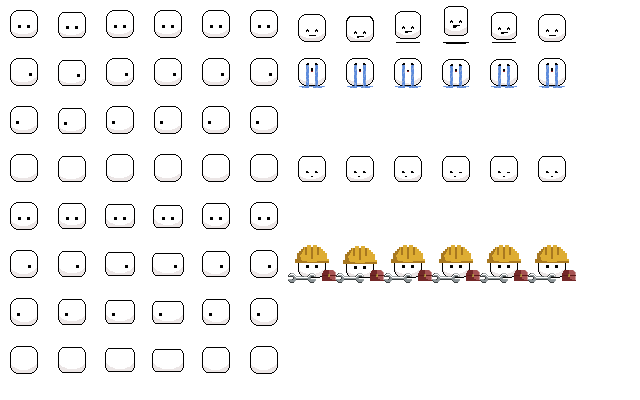
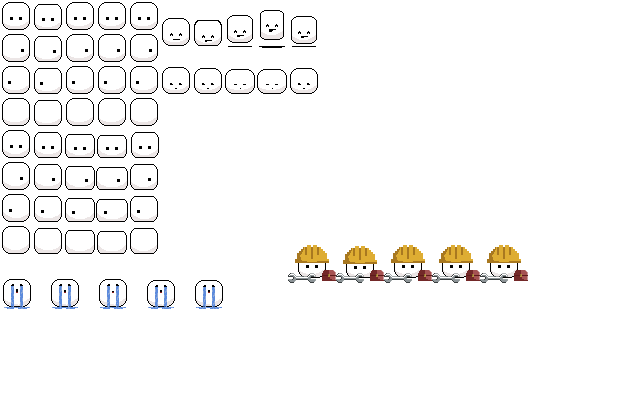
Updated state animations
Added animation data to config and added animation updates to states.

diff --git a/Graphical-AI-Solutions/Pathfinding/Semi-Primitives/AnimatedSprite.cpp b/Graphical-AI-Solutions/Pathfinding/Semi-Primitives/AnimatedSprite.cpp
@@ -1,11 +1,12 @@
 #include "AnimatedSprite.h"
 
 AnimatedSprite::AnimatedSprite()
-: animData_(AnimData())
+: animationStates_(std::map<std::string, int>())
+, animData_(AnimData())
 , animNum_(0)
 , frameNum_(0)
 , frameTime_(0)
-, animFPS_(12.0f) { }
+, animFPS_(16.0f) { }
 
 void AnimatedSprite::initialize(AnimData animData, unsigned int startingAnimNum) {
 		animData_ = animData;
@@ -14,6 +15,11 @@ void AnimatedSprite::initialize(AnimData animData, unsigned int startingAnimNum)
 		sf::Sprite::setTexture(*animData_.spriteSheet_ptr_);
 		// Set animation to default animation.
 		changeAnim(0);
+
+		// Create Animation States Mappings
+		for (unsigned int i = 0; i < animData.numOfAnimatons_; ++i) {
+			animationStates_.emplace(animData.frameInfo_[i].animName_, i);
+		}
 }
 
 void AnimatedSprite::update(float deltaTime) {
@@ -57,4 +63,18 @@ void AnimatedSprite::changeAnim(unsigned int num) {
 		animData_.frameInfo_[animNum_].animOffset_.top,
 		animData_.frameInfo_[animNum_].animOffset_.width,
 		animData_.frameInfo_[animNum_].animOffset_.height));
+
+	// Update Animation origin based on TileSize
+	int xOffset = std::abs(TILESIZE - animData_.frameInfo_[animNum_].animOffset_.width);
+	int yOffset = std::abs(TILESIZE - animData_.frameInfo_[animNum_].animOffset_.height);
+	// apply to origin
+	sf::Sprite::setOrigin(xOffset, yOffset);
+}
+
+int AnimatedSprite::getAnimationByName(std::string animationName)
+{
+	if (animationStates_.find(animationName) != animationStates_.end()) {
+		return animationStates_[animationName];
+	}
+	throw std::exception("There is no key 'name' in animationStates");
 }

diff --git a/Graphical-AI-Solutions/Pathfinding/AI/FollowPathState.cpp b/Graphical-AI-Solutions/Pathfinding/AI/FollowPathState.cpp
@@ -20,6 +20,20 @@ sf::Vector2u FollowPathState::convertTileToVector(unsigned long int tileIndex, i
 	return sf::Vector2u((tileIndex % mapWidth) * TILESIZE, (tileIndex / mapWidth) * TILESIZE);
 }
 
+void FollowPathState::setAnimationDirection(sf::Vector2i direction) {
+	// set new animation
+	int animIndex = 0;
+	if (direction_.x > 0)
+		animIndex = owner_->getAnimationByName(WALKING_RIGHT_ANIMATION.animName_);
+	else if (direction_.x < 0)
+		animIndex = owner_->getAnimationByName(WALKING_LEFT_ANIMATION.animName_);
+	else if (direction_.y > 0)
+		animIndex = owner_->getAnimationByName(WALKING_DOWN_ANIMATION.animName_);
+	else if (direction_.y < 0)
+		animIndex = owner_->getAnimationByName(WALKING_UP_ANIMATION.animName_);
+	owner_->changeAnim(animIndex);
+}
+
 	void FollowPathState::update(float deltaTime) {
 		// move character
 		owner_->move(direction_.x * movingSpeed_ * deltaTime,
@@ -44,7 +58,7 @@ sf::Vector2u FollowPathState::convertTileToVector(unsigned long int tileIndex, i
 			if (newDirection != direction_) {
 				// Set new direction
 				direction_ = newDirection;
-				// set new animation
+				setAnimationDirection(direction_);
 			}
 		}
 	};
@@ -52,6 +66,7 @@ sf::Vector2u FollowPathState::convertTileToVector(unsigned long int tileIndex, i
 	void FollowPathState::enter() {
 		direction_ = getDirection(static_cast<sf::Vector2u>(owner_->getPosition()),
 			convertTileToVector(path_[currentTargetIndex_], MAP_WIDTH));
+		setAnimationDirection(direction_);
 	};
 
 	FollowPathState::FollowPathState(AIController* parent, AnimatedSprite* owner, std::vector<unsigned long int> path)

diff --git a/Graphical-AI-Solutions/Pathfinding/AI/FindPathState.cpp b/Graphical-AI-Solutions/Pathfinding/AI/FindPathState.cpp
@@ -25,11 +25,13 @@ ProblemDefinition FindPathState::generateRandomProblem(sf::Vector2f characterPos
 
 void FindPathState::update(float deltaTime) {
 	if (path_._Is_ready()) {
-		if (pathfinder_.getFoundPath()) {
-			parent_->setState(new FollowPathState(parent_, owner_, path_.get()));
-		}
-		else {
-			parent_->setState(new ShowResultState(parent_, owner_, false));
+		if (clock_.getElapsedTime().asSeconds() > waitTime_) {
+			if (pathfinder_.getFoundPath()) {
+				parent_->setState(new FollowPathState(parent_, owner_, path_.get()));
+			}
+			else {
+				parent_->setState(new ShowResultState(parent_, owner_, false));
+			}
 		}
 	}
 }
@@ -47,8 +49,17 @@ void FindPathState::enter() {
 	std::static_pointer_cast<Maze>(maze)->setMapData(problemDefinition_.mapData);
 
 	path_ = std::async(&Pathfinder::findPath, &pathfinder_, owner_->getPosition(), problemDefinition_.destination, problemDefinition_.mapData);
+
+	// Set thinking animation
+	auto animIndex = owner_->getAnimationByName(IDLE_ANIMATION.animName_);
+	owner_->changeAnim(animIndex);
+
+	// Start clock
+	clock_.restart();
 }
 
 FindPathState::FindPathState(AIController* parent, AnimatedSprite* owner, ProblemDefinition problemDefinition)
 	: ProblemSolverState(parent, owner)
-	, problemDefinition_(problemDefinition) { }
+	, problemDefinition_(problemDefinition)
+	, clock_(sf::Clock())
+	, waitTime_(2) { }

diff --git a/Graphical-AI-Solutions/Pathfinding/config.h b/Graphical-AI-Solutions/Pathfinding/config.h
@@ -19,13 +19,14 @@
 #define AI_CHARACTER_NAME "problemSolver"
 #define CHARACTER_START_X 0
 #define CHARACTER_START_Y 0
-#define AI_MOVING_SPEED 20.f
+#define AI_MOVING_SPEED 35.f
 
 // AI-Character animation states
-#define THINKING_ANIMATION 0
-#define WALKING_UP_ANIMATION 0
-#define WALKING_DOWN_ANIMATION AnimFrameData{ sf::Rect<int>(0, 5 * 48, 48, 48), 5, "walking down" }
-#define WALKING_RIGHT_ANIMATION 0
-#define WALKING_LEFT_ANIMATION 0
-#define CELEBRATE_ANIMATION AnimFrameData{ sf::Rect<int>(6 * 48, 0, 48, 48), 5, "celebrate" }
-#define CRY_ANIMATION 0
+#define IDLE_ANIMATION AnimFrameData{ sf::Rect<int>(0, 0, 32, 32), 5, "idle" }
+#define WALKING_DOWN_ANIMATION AnimFrameData{ sf::Rect<int>(0, 128, 32, 32), 5, "walking down" }
+#define WALKING_RIGHT_ANIMATION AnimFrameData{ sf::Rect<int>(0, 160, 32, 32), 5, "walking right" }
+#define WALKING_LEFT_ANIMATION AnimFrameData{ sf::Rect<int>(0, 192, 32, 32), 5, "walking left" }
+#define WALKING_UP_ANIMATION AnimFrameData{ sf::Rect<int>(0, 224, 32, 32), 5, "walking up" }
+#define THINKING_ANIMATION AnimFrameData{ sf::Rect<int>(0, 0, 32, 32), 5, "thinking" }
+#define CELEBRATE_ANIMATION AnimFrameData{ sf::Rect<int>(160, 0, 32, 48), 5, "celebrate" }
+#define CRY_ANIMATION AnimFrameData{ sf::Rect<int>(0, 0, 32, 32), 5, "cry" }

diff --git a/Graphical-AI-Solutions/Pathfinding/Semi-Primitives/AnimatedSprite.h b/Graphical-AI-Solutions/Pathfinding/Semi-Primitives/AnimatedSprite.h
@@ -1,13 +1,14 @@
 #pragma once
 #include <SFML/Graphics.hpp>
 #include "../WorldObjects/WorldObject.hpp"
+#include "../config.h"
 
 struct AnimFrameData {
 	// The offset of the first frame and the size of the images of an animation
 	sf::Rect<int> animOffset_;
 	// The total number of frames for said animation
 	unsigned int numFrames_;
-	// The name of the anomation
+	// The name of the animation
 	std::string animName_;
 };
 
@@ -22,6 +23,8 @@ struct AnimData {
 
 class AnimatedSprite : public sf::Sprite {
 private:
+	// Mapping for animation states in the AnimatedSprite, name of animation - index of animation in AnimData
+	std::map<std::string, int> animationStates_;
 	// All of the animation data (includes ImageFile and FrameData)
 	AnimData animData_;
 	// The particular animation that is active
@@ -38,4 +41,5 @@ public:
 	virtual void initialize(AnimData animData, unsigned int startingAnimNum);
 	virtual void update(float deltaTime);
 	void changeAnim(unsigned int num);
+	int getAnimationByName(std::string animationName);
 };

diff --git a/Graphical-AI-Solutions/Pathfinding/WorldObjects/ProblemSolver.cpp b/Graphical-AI-Solutions/Pathfinding/WorldObjects/ProblemSolver.cpp
@@ -18,7 +18,6 @@ void ProblemSolver::draw(sf::RenderWindow& window) {
 ProblemSolver::ProblemSolver()
 	: aiController_(new AIController())
 	, animatedSprite_(new AnimatedSprite())
-	, animationStates_(std::map<std::string, int>())
 	, position_(sf::Vector2f(0.f, 0.f)) 
 { }
 
@@ -28,10 +27,6 @@ void ProblemSolver::initialize(AnimData animData, unsigned int startingAnimNum, 
 	animatedSprite_->setPosition(startPosition);
 	// Initialize AnimationSprite
 	animatedSprite_->initialize(animData, startingAnimNum);
-	// Create Animation States Mappings
-	for (unsigned int i = 0; i < animData.numOfAnimatons_; ++i) {
-		animationStates_.emplace(animData.frameInfo_[i].animName_, i);
-	}
 	// Set state for ai controller
 	aiController_->initialize(new FindPathState(aiController_ ,animatedSprite_));
 }

diff --git a/Graphical-AI-Solutions/Pathfinding/AI/ShowResultState.cpp b/Graphical-AI-Solutions/Pathfinding/AI/ShowResultState.cpp
@@ -2,17 +2,21 @@
 #include "FindPathState.h"
 
 void ShowResultState::update(float deltaTime) {
-	parent_->setState(new FindPathState(parent_, owner_));
+	if (clock_.getElapsedTime().asSeconds() > waitTime_) {
+		parent_->setState(new FindPathState(parent_, owner_));
+	}
 };
 
 void ShowResultState::enter() {
 	// Set Animation "Celebrate" or "Cry"
-};
-
-void ShowResultState::exit() {
-
+	auto animIndex = owner_->getAnimationByName(CELEBRATE_ANIMATION.animName_);
+	owner_->changeAnim(animIndex);
+	// Start clock
+	clock_.restart();
 };
 
 ShowResultState::ShowResultState(AIController* parent, AnimatedSprite* owner, bool foundPath)
 	: ProblemSolverState(parent, owner)
-	, foundPath_(foundPath) {};
+	, foundPath_(foundPath) 
+	, clock_(sf::Clock())
+	, waitTime_(3) {};

diff --git a/Graphical-AI-Solutions/Pathfinding/main.cpp b/Graphical-AI-Solutions/Pathfinding/main.cpp
@@ -20,9 +20,13 @@ std::shared_ptr<ProblemSolver> createProblemSolver() {
 	texture->setRepeated(false);
 
 	auto frameInfo = std::vector<AnimFrameData>();
+	frameInfo.push_back(IDLE_ANIMATION);
 	frameInfo.push_back(WALKING_DOWN_ANIMATION);
+	frameInfo.push_back(WALKING_UP_ANIMATION);
+	frameInfo.push_back(WALKING_LEFT_ANIMATION);
+	frameInfo.push_back(WALKING_RIGHT_ANIMATION);
 	frameInfo.push_back(CELEBRATE_ANIMATION);
-	AnimData animData{ texture, frameInfo, 1 };
+	AnimData animData{ texture, frameInfo, frameInfo.size() };
 
 	auto newProblemSolver_ptr = std::make_shared<ProblemSolver>(ProblemSolver());
 	newProblemSolver_ptr->initialize(animData, 0, sf::Vector2f(CHARACTER_START_X, CHARACTER_START_Y));

diff --git a/Graphical-AI-Solutions/Pathfinding/AI/FollowPathState.h b/Graphical-AI-Solutions/Pathfinding/AI/FollowPathState.h
@@ -20,6 +20,7 @@ private:
 	float getVectorDistance(sf::Vector2f characterPosition, sf::Vector2u targetPosition);
 	sf::Vector2i getDirection(sf::Vector2u characterPosition, sf::Vector2u targetPosition);
 	sf::Vector2u convertTileToVector(unsigned long int tileIndex, int mapWidth);
+	void setAnimationDirection(sf::Vector2i direction);
 
 public:
 	void update(float deltaTime) override;

diff --git a/Graphical-AI-Solutions/Pathfinding/WorldObjects/ProblemSolver.h b/Graphical-AI-Solutions/Pathfinding/WorldObjects/ProblemSolver.h
@@ -9,8 +9,6 @@ private:
 	AIController* aiController_;
 	// Graphics component to draw an animated sprite from sprite-sheet
 	AnimatedSprite* animatedSprite_;
-	// Mapping for animation states in the AnimatedSprite, name of animation - index of animation in AnimData
-	std::map<std::string, int> animationStates_;
 	// Position of character
 	sf::Vector2f position_;
 public:

diff --git a/Graphical-AI-Solutions/Pathfinding/AI/ShowResultState.h b/Graphical-AI-Solutions/Pathfinding/AI/ShowResultState.h
@@ -9,10 +9,11 @@ class FindPathState;
 class ShowResultState : public ProblemSolverState {
 private:
 	bool foundPath_;
+	sf::Clock clock_;
+	int waitTime_;
 
 public:
 	void update(float deltaTime) override;
 	void enter() override;
-	void exit() override;
 	ShowResultState(AIController* parent, AnimatedSprite* owner, bool foundPath);
 };

diff --git a/Graphical-AI-Solutions/Pathfinding/AI/FindPathState.h b/Graphical-AI-Solutions/Pathfinding/AI/FindPathState.h
@@ -18,6 +18,8 @@ private:
 	Pathfinder pathfinder_;
 	std::future<std::vector<unsigned long int>> path_;
 	ProblemDefinition problemDefinition_;
+	sf::Clock clock_;
+	int waitTime_;
 
 	ProblemDefinition generateRandomProblem(sf::Vector2f characterPosition, int mapHeight, int mapWidth, int amountOfWalls);
 
